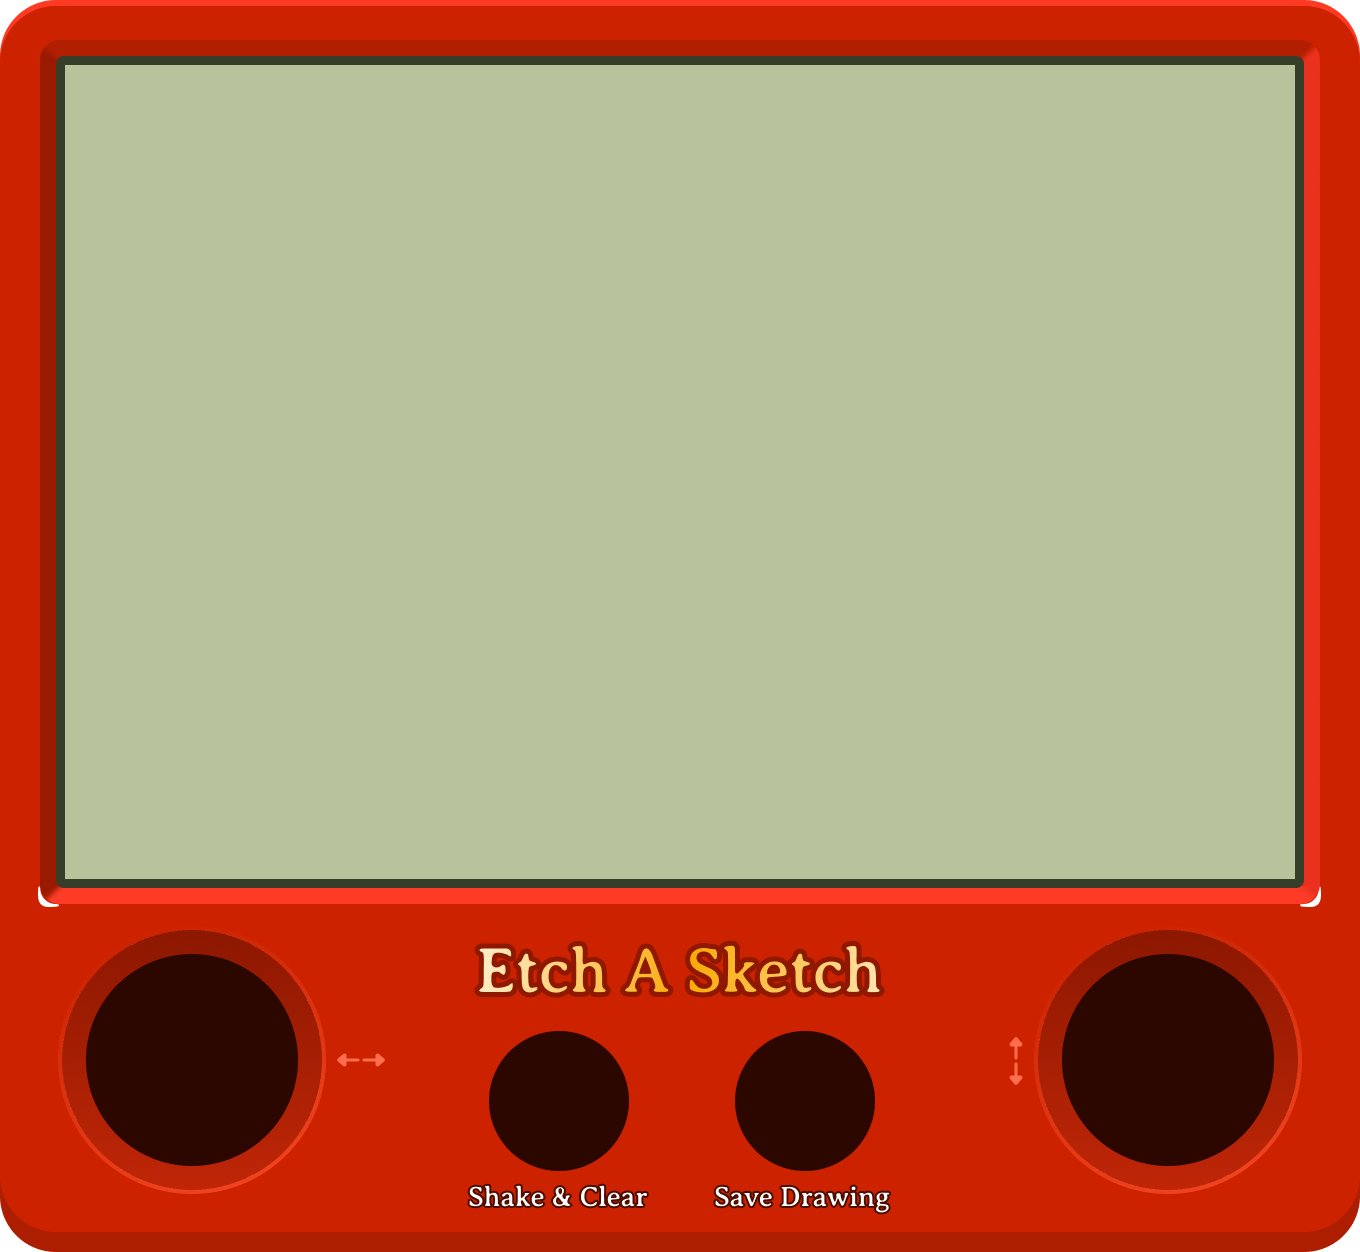
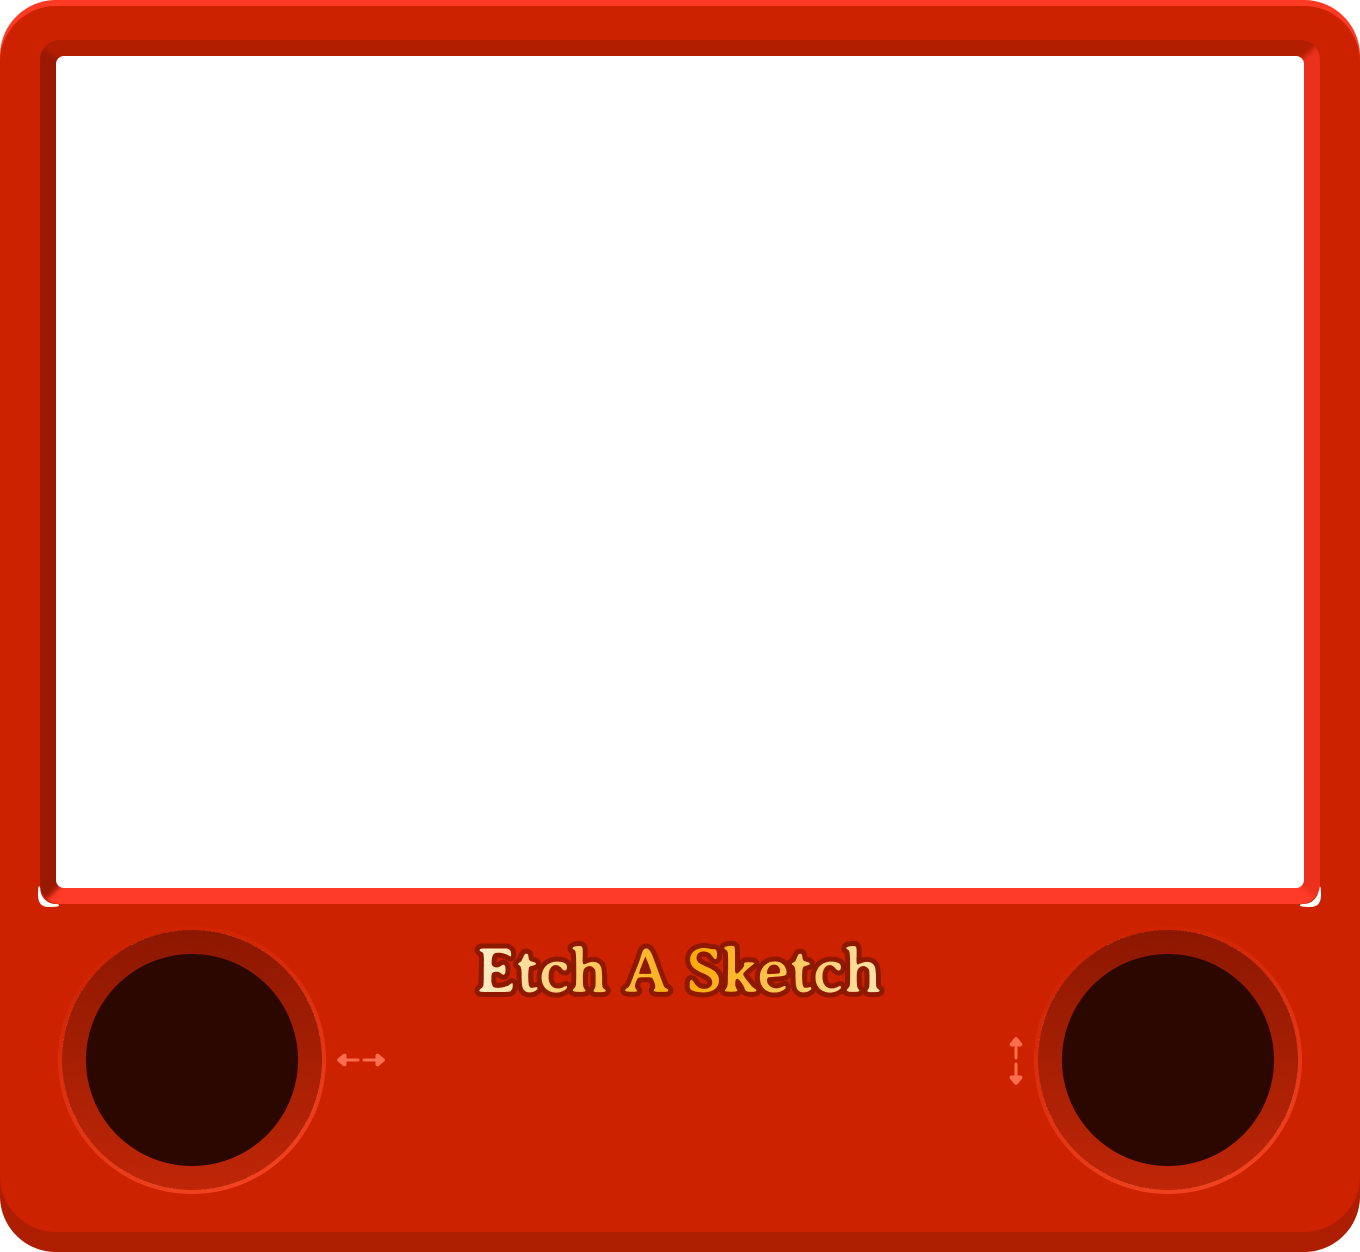
Add draw/move toggle, crosshair cursor, and updated assets
- Draw-mode toggle button (draw-on/draw-off) with slide animation in oval base
- Visible crosshair cursor (4 black pixel dots) on canvas at all times
- Knob drag in draw-off mode repositions cursor without drawing
- Keyboard arrows also respect draw mode flag
- Updated frame, button assets with black outlines
- New assets: draw-on.png, draw-off.png, draw-toggle-base.png

diff --git a/index.html b/index.html
@@ -106,6 +106,31 @@
       border-radius: 4px;
     }
 
+    /* Cursor overlay — exactly mirrors the canvas bounding box */
+    #cursor-overlay {
+      position: absolute;
+      left:   var(--canvas-left);
+      top:    var(--canvas-top);
+      width:  var(--canvas-width);
+      height: var(--canvas-height);
+      z-index: 13;   /* above canvas (11) and knob-zones (12), below buttons (15) */
+      pointer-events: none;
+    }
+
+    #cursor-dot {
+      position: absolute;
+      width: 0;
+      height: 0;
+      pointer-events: none;
+      /* 4 square dots ±6px from cursor centre — no centre dot, clear crosshair gap */
+      box-shadow:
+        0    -6px 0 2px rgba(0, 0, 0, 0.9),
+        0     6px 0 2px rgba(0, 0, 0, 0.9),
+        -6px  0   0 2px rgba(0, 0, 0, 0.9),
+        6px   0   0 2px rgba(0, 0, 0, 0.9);
+      filter: none;
+    }
+
     /* Knob images — proportional to frame (14.71% = 200px at native 1360px),
        centred on their recess socket holes */
     #knob-left,
@@ -185,8 +210,40 @@
     .frame-btn:hover  { opacity: 0.82; }
     .frame-btn:active { transform: translateX(-50%) translateY(-50%) scale(0.92); }
 
-    #btn-shake { left: 41.07%; top: 87.90%; }
-    #btn-save  { left: 59.15%; top: 87.90%; }
+    /* Three buttons — all vertically centred on the same 87.90% line */
+    #btn-shake       { left: 37.00%; top: 87.90%; }
+    #btn-save        { left: 63.22%; top: 87.90%; }
+
+    /* Toggle base: width scaled so height == shake/save height (78px)
+       base natural 92×136 → target h=78px → w = 78×(92/136) = 52.8px = 7.33% of 720 */
+    #draw-toggle-base {
+      position: absolute;
+      width: 7.33%;
+      left: 50.11%;
+      top: 87.90%;          /* same centre as shake/save — top & bottom guide lines align */
+      transform: translateX(-50%) translateY(-50%);
+      z-index: 14;
+      pointer-events: none;
+      user-select: none;
+      -webkit-user-drag: none;
+    }
+
+    /* Toggle button at 86% of base width → 6.30%
+       draw-on  top = base-top + 6px rim → 82.0% + 0.90% + half-btn(3.70%) = 86.60%
+       draw-off top = base-bot - 2px rim - half-btn           = 90.10%        */
+    #btn-draw-toggle {
+      left: 50.11%;
+      top: 86.60%;          /* draw-on: 6px dark cap visible above button */
+      width: 6.30%;
+      transition: top 0.18s cubic-bezier(0.25, 1, 0.5, 1);
+    }
+    #btn-draw-toggle.draw-off {
+      top: 90.10%;          /* draw-off: button at base bottom, large dark cap above */
+    }
+    /* The slide is the press feedback — suppress the default scale */
+    #btn-draw-toggle:active {
+      transform: translateX(-50%) translateY(-50%);
+    }
   </style>
 </head>
 <body>
@@ -198,6 +255,9 @@
       <!-- 2 · Drawing canvas -->
       <canvas id="drawing-canvas" width="560" height="420" tabindex="0"
               aria-label="Etch-A-Sketch drawing canvas. Use arrow keys to draw."></canvas>
+
+      <!-- 2b · Cursor dot overlay — sits above canvas, visible in both modes -->
+      <div id="cursor-overlay"><div id="cursor-dot"></div></div>
 
       <!-- 3 · Knobs (behind frame, visible through its transparent holes) -->
       <img id="knob-left"  src="assets/knob-left.png?v=2"  alt="Left knob  — controls horizontal axis">
@@ -211,6 +271,13 @@
       <button id="btn-shake" class="frame-btn" type="button" aria-label="Shake and clear">
         <img src="assets/Shake and Clear.png" alt="">
       </button>
+
+      <!-- Draw toggle: oval base behind button, button on top -->
+      <img id="draw-toggle-base" src="assets/draw-toggle-base.png" alt="">
+      <button id="btn-draw-toggle" class="frame-btn" type="button" aria-label="Toggle draw mode — currently drawing">
+        <img id="draw-toggle-img" src="assets/draw-on.png" alt="">
+      </button>
+
       <button id="btn-save" class="frame-btn" type="button" aria-label="Save drawing">
         <img src="assets/Save Drawing.png" alt="">
       </button>
@@ -236,6 +303,7 @@
     const knobLeft  = document.getElementById('knob-left');
     const knobRight = document.getElementById('knob-right');
     const device    = document.getElementById('device');
+    const cursorDot = document.getElementById('cursor-dot');
 
     /* ─────────────────────────────────────────────
        Canvas setup
@@ -268,9 +336,15 @@
       ctx.fillStyle = '#000000';
       kbCursor.x = Math.min(kbCursor.x, COLS - 1);
       kbCursor.y = Math.min(kbCursor.y, ROWS - 1);
+      updateCursor();
     }
     requestAnimationFrame(resizeCanvas);
     new ResizeObserver(resizeCanvas).observe(canvas);
+
+    function updateCursor() {
+      cursorDot.style.left = ((kbCursor.x + 0.5) / COLS * 100) + '%';
+      cursorDot.style.top  = ((kbCursor.y + 0.5) / ROWS * 100) + '%';
+    }
 
     /* ─────────────────────────────────────────────
        Grid helpers
@@ -315,7 +389,9 @@
       isDrawing = true;
       const cell = clientToCell(e.clientX, e.clientY);
       lastCell = cell;
-      fillCell(cell.x, cell.y);
+      kbCursor = { ...cell };
+      if (drawModeOn) fillCell(cell.x, cell.y);
+      updateCursor();
     });
 
     window.addEventListener('mousemove', e => {
@@ -324,11 +400,13 @@
       if (lastCell) {
         const dx = cell.x - lastCell.x;
         const dy = cell.y - lastCell.y;
-        drawLine(lastCell.x, lastCell.y, cell.x, cell.y);
+        if (drawModeOn) drawLine(lastCell.x, lastCell.y, cell.x, cell.y);
         if (dx !== 0) leftKnobAngle  += dx * 5;
         if (dy !== 0) rightKnobAngle += dy * 5;
       }
       lastCell = cell;
+      kbCursor = { ...cell };
+      updateCursor();
     });
 
     window.addEventListener('mouseup', () => {
@@ -380,7 +458,8 @@
         case 'ArrowDown':  kbCursor.y = Math.min(ROWS - 1, kbCursor.y + 1); rightKnobAngle += 15; break;
       }
       if (kbCursor.x !== prev.x || kbCursor.y !== prev.y) {
-        drawLine(prev.x, prev.y, kbCursor.x, kbCursor.y);
+        if (drawModeOn) drawLine(prev.x, prev.y, kbCursor.x, kbCursor.y);
+        updateCursor();
       }
     });
 
@@ -452,7 +531,8 @@
             kbCursor.y = Math.max(0, Math.min(ROWS - 1, kbCursor.y + steps));
           }
           if (kbCursor.x !== prev.x || kbCursor.y !== prev.y) {
-            drawLine(prev.x, prev.y, kbCursor.x, kbCursor.y);
+            if (drawModeOn) drawLine(prev.x, prev.y, kbCursor.x, kbCursor.y);
+            updateCursor();
           }
         }
 
@@ -507,7 +587,8 @@
           canvas.style.opacity = '1';
 
           /* Reset keyboard cursor to centre */
-          kbCursor = { x: 70, y: 52 };
+          kbCursor = { x: Math.floor(COLS / 2), y: Math.floor(ROWS / 2) };
+          updateCursor();
 
           /* Snap both knob indicators back to 12-o'clock (0°) */
           leftKnobAngle  = 0;
@@ -523,6 +604,21 @@
     }
 
     document.getElementById('btn-shake').addEventListener('click', triggerShake);
+
+    /* ─────────────────────────────────────────────
+       Draw-mode toggle
+    ───────────────────────────────────────────── */
+    let drawModeOn = true;
+
+    document.getElementById('btn-draw-toggle').addEventListener('click', () => {
+      drawModeOn = !drawModeOn;
+      const btn = document.getElementById('btn-draw-toggle');
+      const img = document.getElementById('draw-toggle-img');
+      img.src = drawModeOn ? 'assets/draw-on.png' : 'assets/draw-off.png';
+      btn.classList.toggle('draw-off', !drawModeOn);
+      btn.setAttribute('aria-label', drawModeOn ? 'Toggle draw mode — currently drawing' : 'Toggle draw mode — currently moving');
+      canvas.style.cursor = drawModeOn ? 'crosshair' : 'default';
+    });
 
     /* ─────────────────────────────────────────────
        Save Drawing
